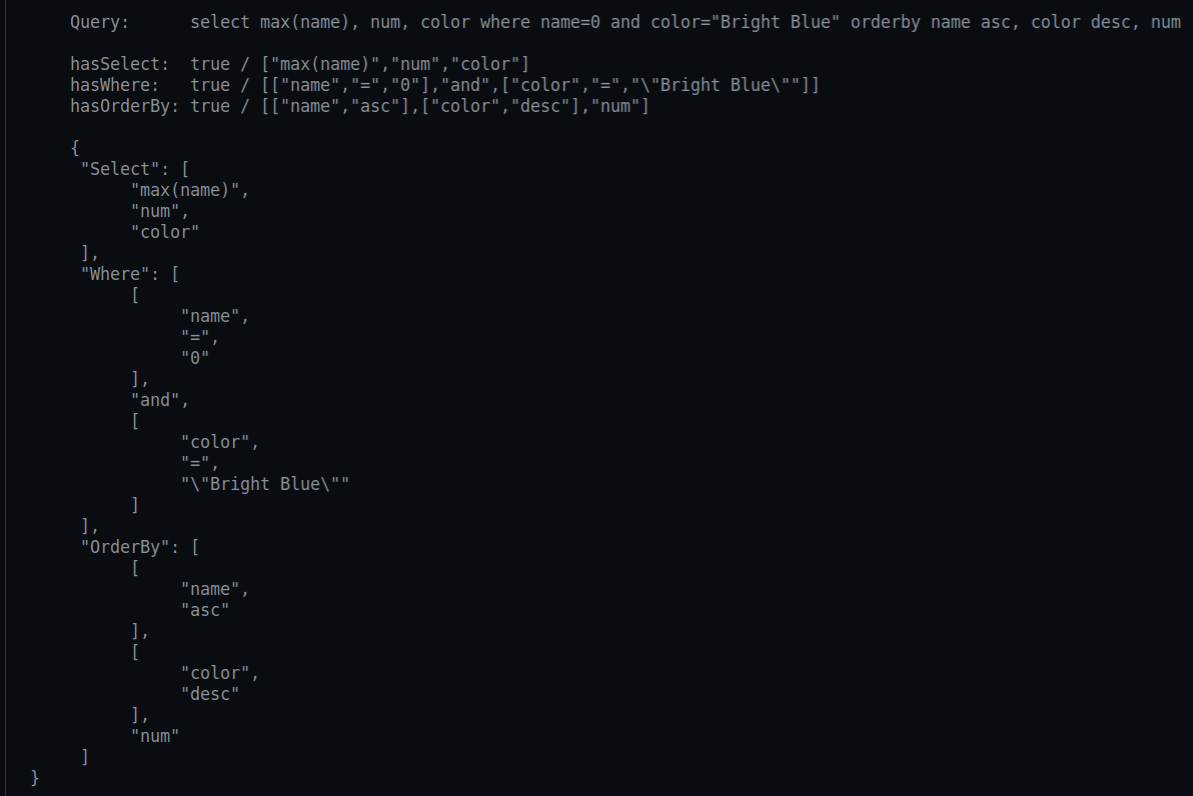
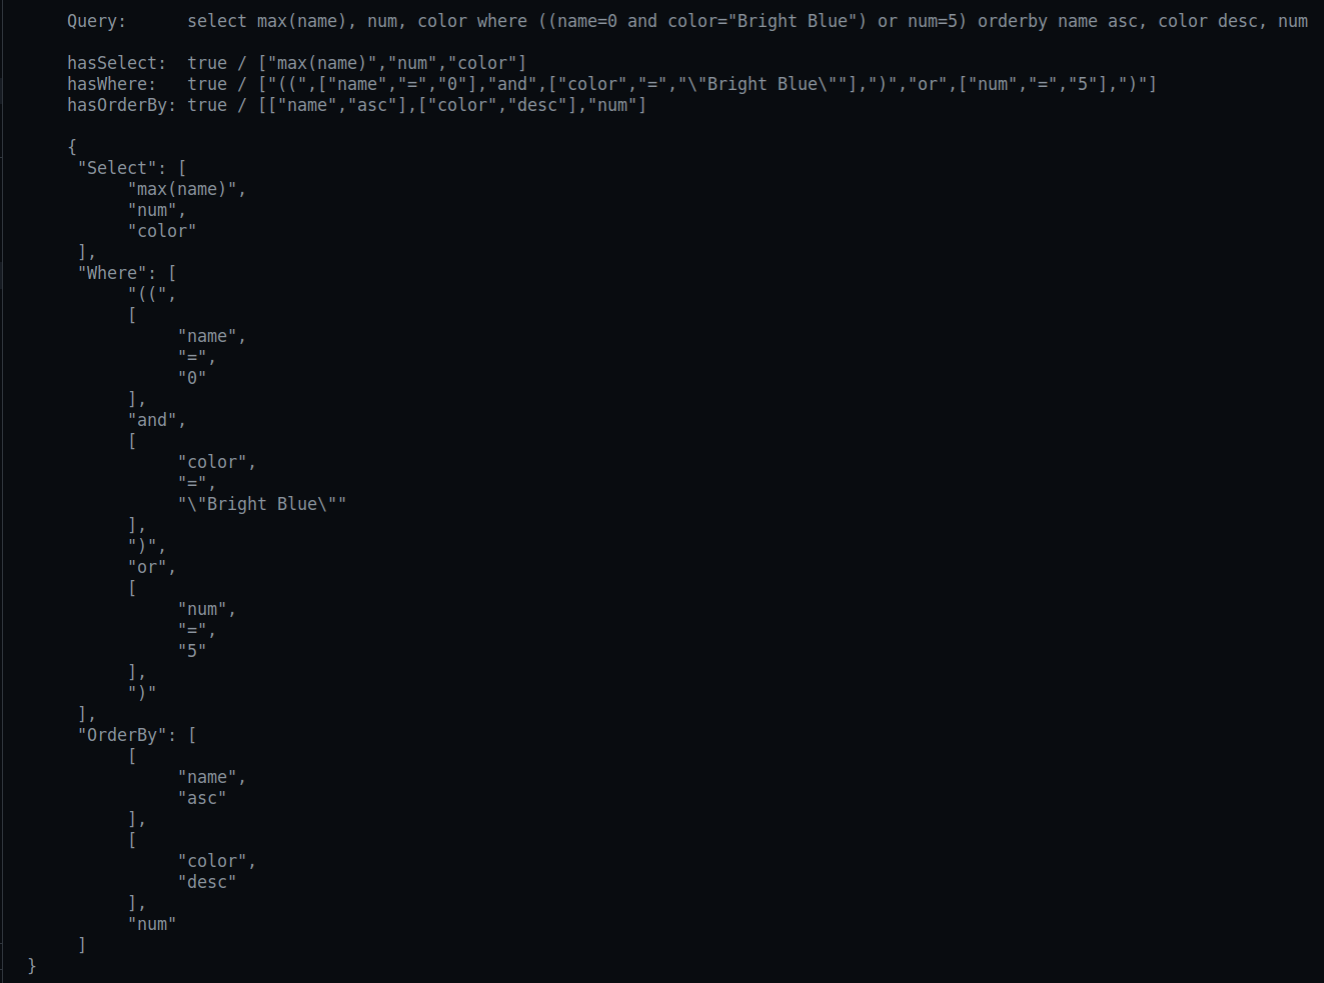
Sub Queries

diff --git a/SQLParse.js b/SQLParse.js
@@ -70,6 +70,30 @@ function preParse(str) {
 }
 
 /**
+ * Function: parenSplit
+ * Purpose:  Split a string to respect parenthesis
+ * Params:   element(string) - The element to parse
+ * Returns:  []
+ ****************************************************************/
+ function parenSplit(element) {
+    const regex  = /^([\(]+)?(.*[^\)])([\)]+)?$/g;
+
+    let results = [];
+
+    if ((matches = regex.exec(element)) !== null) {
+        matches.forEach((match, groupIndex) => {
+            if (groupIndex >= 1) {
+                if (match && (match.indexOf('(')) != -1) results.push(match)
+                else if (match && (match.indexOf(')')) != -1) results.push(match)
+                else if (match) results.push(keyValueSplit(match))
+            };
+        });
+    }
+
+    return results;
+}
+
+/**
  * Function: parse
  * Purpose:  Split a SQL(ish) string into an object
  * Params:   query(string) - The string to parse
@@ -79,6 +103,7 @@ function preParse(str) {
     const regex  = /([^\s\"',]+|\"([^\"]*)\"|'([^']*)')+/g;
     const keys   = /^select$|^where$|^orderby$/i;
     const orders = /^asc$|^desc$/i;
+    const parens = /^(\(+)|(\)+)$/g;
 
     let Segments = {Select: [], Where: [], OrderBy: []};
     let key      = null;
@@ -95,7 +120,13 @@ function preParse(str) {
                 if (key == 'OrderBy' && orders.exec(matched)) {
                     let index = Segments[key].length - 1;                
                     Segments[key][index] = [Segments[key][index], matched];
-                } else Segments[key].push(keyValueSplit(matched))
+                } else {
+                    if (key == 'Where' && parens.exec(matched)) {
+                        parenSplit(matched).forEach(x => Segments[key].push(x));
+                    } else {
+                        Segments[key].push(keyValueSplit(matched))
+                    }
+                }
             }
         }
     }

diff --git a/test.js b/test.js
@@ -1,6 +1,6 @@
 const SQLParse = require('./SQLParse.js');
 
-let parser = new SQLParse('select max(name), num, color where name=0 and color = "Bright Blue" orderby name asc, color desc, num');
+let parser = new SQLParse('select max(name), num, color where ((name=0 and color = "Bright Blue") or num = 5) orderby name asc, color desc, num');
 let toJson = function(data) { return JSON.stringify(data) }
 
 console.log(`

diff --git a/README.md b/README.md
@@ -2,7 +2,6 @@
 
 Basic JS SQLParser, creates an object (array of arrays) of the query.
 
-Does not support nested brackets (I may add that later).<br>
 Only supports select, where and orderby
 
 ### *Functions*
